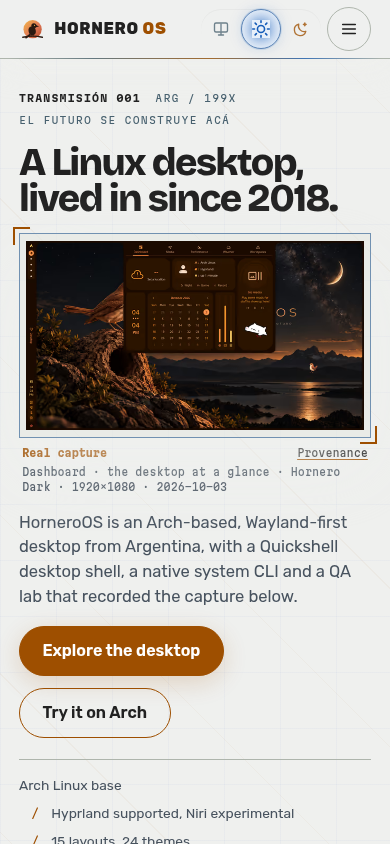
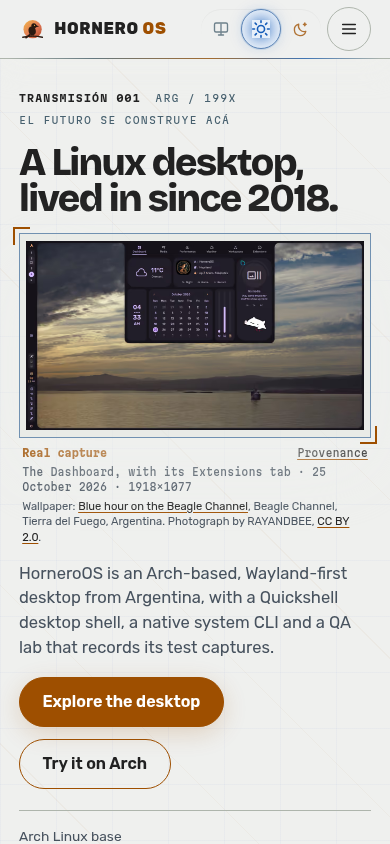
feat: lead with real live-session captures and address review feedback
Use four contributor-provided captures from a live session on 2026-10-25
(not AI-generated) as the protagonists of the site. The wallpaper in them is
a licensed Beagle Channel photograph (RAYANDBEE, CC BY 2.0), credited next to
the image.

- Homepage hero is now the Dashboard capture with its Extensions tab; the
  working-day section is btop and yazi at full width; the default social card
  and the showroom card use the same captures.
- Showroom gains "One morning on the Beagle Channel" with all four captures
  (dashboard, terminal tools, quick toggles, launcher wallpaper picker).
- Extensions page shows where extensions live in the Dashboard.
- Captures carry contributor-provided provenance and JSON sidecars; the picker
  capture notes its wallpapers are not shipped with HorneroOS.

CodeRabbit review (#154):
- Declare puppeteer as a direct dev dependency for scripts/build-og.mjs.
- Scope the look-compare range overlay to .is-live so it is not rendered or
  focusable without JavaScript.
- Describe extension badges as declarations, not guarantees.
- Say captures come from QA runs or labelled contributor sessions instead of
  claiming every screenshot is from QA; restore "QA run or visual review".
- Build the readiness sentence in the frontmatter with a version fallback.
- Fix the showroom hero cascade so the identification plate spans both columns.
- Update the stale poster location in DESIGN_SYSTEM_199X.md.
- Fix missing spaces after inline links in two paragraphs.

Changed region(s): [[0.0308, 0.5545, 0.8923, 1.0], [0.0615, 0.2773, 0.9538, 0.5237], [0.0308, 0.8934, 0.0615, 0.9242]]

diff --git a/src/data/story.ts b/src/data/story.ts
@@ -88,7 +88,7 @@ export const story: StoryEntry[] = [
     date: '2026-10-01',
     title: 'A QA repository records evidence',
     summary:
-      'HorneroOS/qa boots virtual machines, drives scenarios and keeps screenshots with hashes and the pinned product revisions. The captures on this site come from it.',
+      'HorneroOS/qa boots virtual machines, drives scenarios and keeps screenshots with hashes and the pinned product revisions. Most captures on this site come from it; live-session captures are labelled as contributor-provided.',
     evidence: 'git',
     source: { label: 'Bootstrap of HorneroOS/qa', href: `${org}/qa/commit/447f5b4e367dcb153215630e6669e4983da39473` },
     featured: true,

diff --git a/docs/REDESIGN_2026.md b/docs/REDESIGN_2026.md
@@ -14,12 +14,22 @@ on the site, but far below the first screen.
 ## Decisions
 
 - **The desktop is the first thing on the page.** The homepage cover pairs the
-  headline with the real `dashboard` QA capture at its native 16:9, loaded
-  eagerly with high priority. On phones the capture sits directly under the
-  headline.
+  headline with a real, contributor-provided capture of the Dashboard
+  (`dashboard-extensions`, 25 October 2026) at its native 16:9, loaded eagerly
+  with high priority. Its wallpaper is a licensed photograph of the Beagle
+  Channel (RAYANDBEE, CC BY 2.0), credited under the image, so the first frame
+  is a real Argentine photograph on a real desktop. On phones the capture sits
+  directly under the headline. The QA-run captures stay in the layout explorer,
+  the dark/light comparison and the showroom.
 - **The headline states something checkable.** "A Linux desktop, lived in since
   2018." refers to the maintainer's daily workstation. "El futuro se construye
   acá" stays as the broadcast ident in the identification plate.
+- **Contributor captures are labelled as such.** The four captures of the
+  25 October session carry `HorneroOS contributor-provided workstation capture`
+  provenance, a "not an installer or release acceptance image" note and a JSON
+  sidecar in `assets/screenshots/curated/`. The wallpaper-picker capture notes
+  that its thumbnails come from the contributor's own folder and are not
+  shipped.
 - **Proof before claims.** Each homepage section is a capability shown on a real
   capture (layouts, theme change, a working session) or a source-backed record
   (timeline, ledger). The wallpaper atlas, greeter feature and poster moved to

diff --git a/.github/evidence/site-redesign-199x/README.md b/.github/evidence/site-redesign-199x/README.md
@@ -14,6 +14,8 @@ come from the live site at <https://horneroos.com>.
 - `after-home-desktop-1920.png`, `after-home-tablet-768.png`,
   `after-home-light-1440.png`, `after-home-light-mobile-390.png`: other sizes
   and Light mode.
+- `after-showroom-session-1440.png`: the new "One morning on the Beagle Channel"
+  section with four contributor-provided captures from one live session.
 - `before-home-full-1440.png` / `after-home-full-1440.png`: full pages, scaled to
   720 px wide. The page is shorter and every section has one job.
 - `after-nav-keyboard-open-1440.png`, `after-nav-mobile-open-390.png`: the
@@ -28,12 +30,12 @@ from the same machine.
 
 | Profile | Metric | Before | After |
 | --- | --- | --- | --- |
-| Mobile 390 × 844 | Largest Contentful Paint | 784 ms (a text paragraph) | 1156 ms (the real desktop capture) |
+| Mobile 390 × 844 | Largest Contentful Paint | 784 ms (a text paragraph) | 856 ms (the real desktop capture) |
 | Mobile 390 × 844 | Cumulative Layout Shift | 0.0007 | 0.0001 |
-| Mobile 390 × 844 | Transferred | 253 KB | 183 KB |
-| Desktop 1440 × 900 | Largest Contentful Paint | 2100 ms (a photograph) | 1472 ms (the real desktop capture) |
+| Mobile 390 × 844 | Transferred | 253 KB | 172 KB |
+| Desktop 1440 × 900 | Largest Contentful Paint | 2100 ms (a photograph) | 1272 ms (the real desktop capture) |
 | Desktop 1440 × 900 | Cumulative Layout Shift | 0.0011 | 0.0006 |
-| Desktop 1440 × 900 | Transferred | 288 KB | 249 KB |
+| Desktop 1440 × 900 | Transferred | 288 KB | 229 KB |
 
 On a phone the LCP element is now the product image instead of text, so the
 number is higher by design: the first screen paints the thing a visitor came to

diff --git a/src/content/showroom/dashboard-extensions.md b/src/content/showroom/dashboard-extensions.md
@@ -1,0 +1,11 @@
+---
+title: 'The Dashboard, with its Extensions tab · 25 October 2026'
+image: '../../../assets/screenshots/curated/dashboard-extensions-2026-10-25.webp'
+alt: 'The Hornero Dashboard over a photograph of the Beagle Channel at dusk: weather at 11 degrees and overcast, system details, calendar and clock, resource bars, a media panel with the Companion, and tabs for Dashboard, Media, Performance, Weather, Workspaces and Extensions.'
+order: 13
+provenance:
+  source: HorneroOS contributor-provided workstation capture
+  context: 'Live Hyprland development desktop · Dashboard open · wallpaper: Beagle Channel photograph by RAYANDBEE, CC BY 2.0 · not an installer or release acceptance image'
+  resolution: 1918×1077
+  date: '2026-10-25'
+---

diff --git a/docs/DESIGN_SYSTEM_199X.md b/docs/DESIGN_SYSTEM_199X.md
@@ -95,7 +95,8 @@ the pinned product data; the 199X framing never upgrades a claim.
 for this project (AI-assisted illustration, directed and reviewed by the
 project): a hornero and its nest over the La Plata grid. It contains no
 third-party imagery, no copied broadcaster artwork and no text. On the
-homepage it is explicitly captioned as artwork, never as a screenshot.
+Roots page (identity section) it is captioned as an AI-assisted illustration,
+never as a screenshot; the homepage leads with a real capture instead.
 The config wallpaper (`assets/brand/wallpaper/hornero-199x.png` in
 HorneroOS/config) is generated original artwork in the same scene; the
 simple SVG wallpapers were retired in HorneroOS/config#84.

diff --git a/src/content/showroom/terminal-tools.md b/src/content/showroom/terminal-tools.md
@@ -1,0 +1,11 @@
+---
+title: 'A working desktop: btop and yazi · 25 October 2026'
+image: '../../../assets/screenshots/curated/terminal-tools-2026-10-25.webp'
+alt: 'Two terminal windows on a Hornero desktop over a photograph of the Beagle Channel: btop showing processor, memory, disk, network and process panels, and the yazi file manager browsing a wallpapers folder with a mountain sunrise preview.'
+order: 14
+provenance:
+  source: HorneroOS contributor-provided workstation capture
+  context: 'Live Hyprland development desktop · btop and yazi · wallpaper: Beagle Channel photograph by RAYANDBEE, CC BY 2.0 · not an installer or release acceptance image'
+  resolution: 1918×1078
+  date: '2026-10-25'
+---

diff --git a/src/content/showroom/wallpaper-picker.md b/src/content/showroom/wallpaper-picker.md
@@ -1,0 +1,11 @@
+---
+title: 'The launcher wallpaper picker · 25 October 2026'
+image: '../../../assets/screenshots/curated/wallpaper-picker-2026-10-25.webp'
+alt: 'The Hornero launcher after typing ">wallpaper": a row of wallpaper thumbnails with one selected, previewed live as a pixel-art city street across the whole desktop behind it.'
+order: 16
+provenance:
+  source: HorneroOS contributor-provided workstation capture
+  context: 'Live Hyprland development desktop · launcher wallpaper picker · the wallpapers shown come from the contributor’s own folder and are not shipped with HorneroOS · not an installer or release acceptance image'
+  resolution: 1918×1078
+  date: '2026-10-25'
+---

diff --git a/src/content/showroom/quick-toggles.md b/src/content/showroom/quick-toggles.md
@@ -1,0 +1,11 @@
+---
+title: 'Quick toggles over a quiet desktop · 25 October 2026'
+image: '../../../assets/screenshots/curated/quick-toggles-2026-10-25.webp'
+alt: 'A Hornero desktop showing only a photograph of a ship on the Beagle Channel under dramatic clouds, the vertical shell rail, and a panel with Keep Awake, Screen Recorder and Quick Toggles.'
+order: 15
+provenance:
+  source: HorneroOS contributor-provided workstation capture
+  context: 'Live Hyprland development desktop · quick-settings panel open · wallpaper: Beagle Channel photograph by RAYANDBEE, CC BY 2.0 · not an installer or release acceptance image'
+  resolution: 1918×1077
+  date: '2026-10-25'
+---
